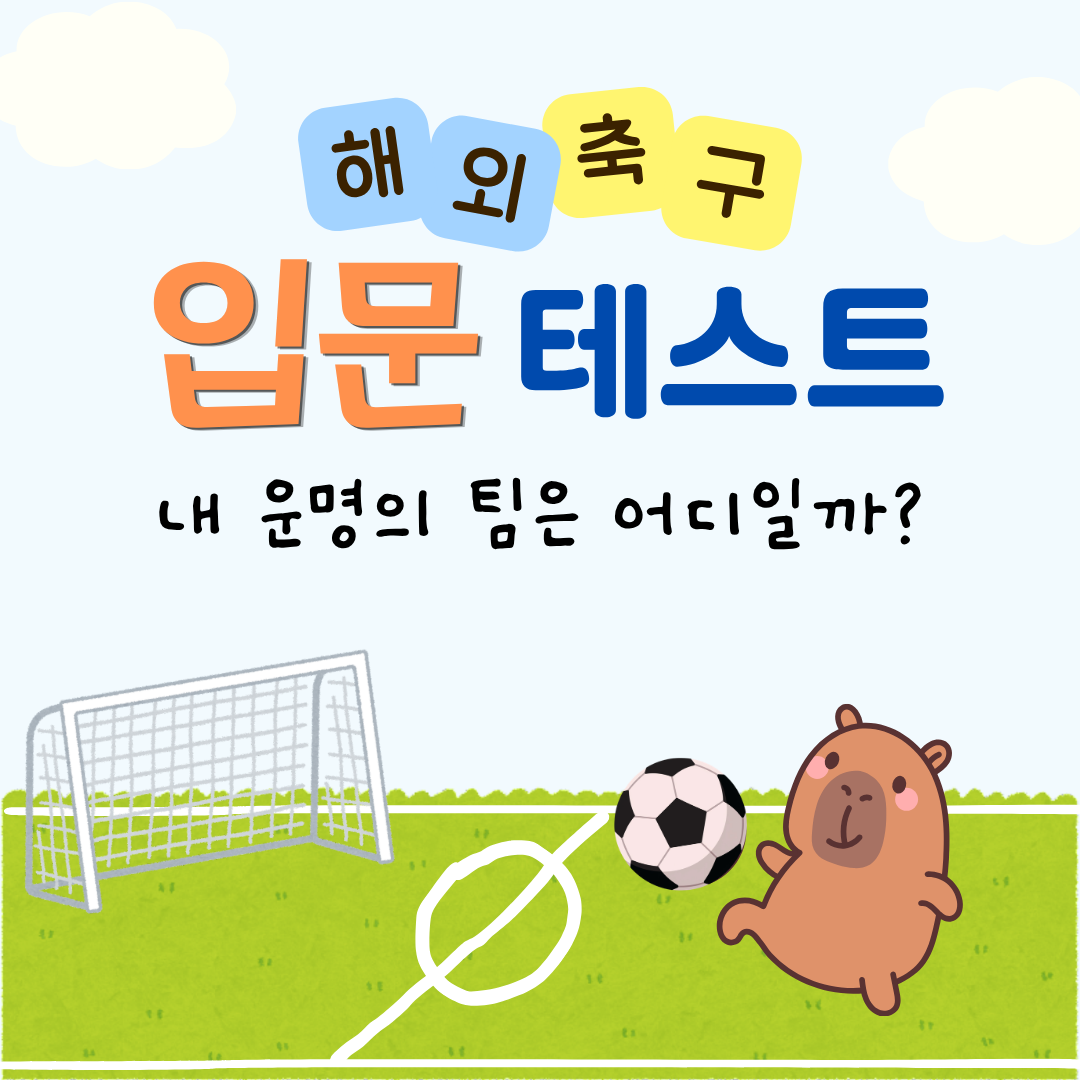
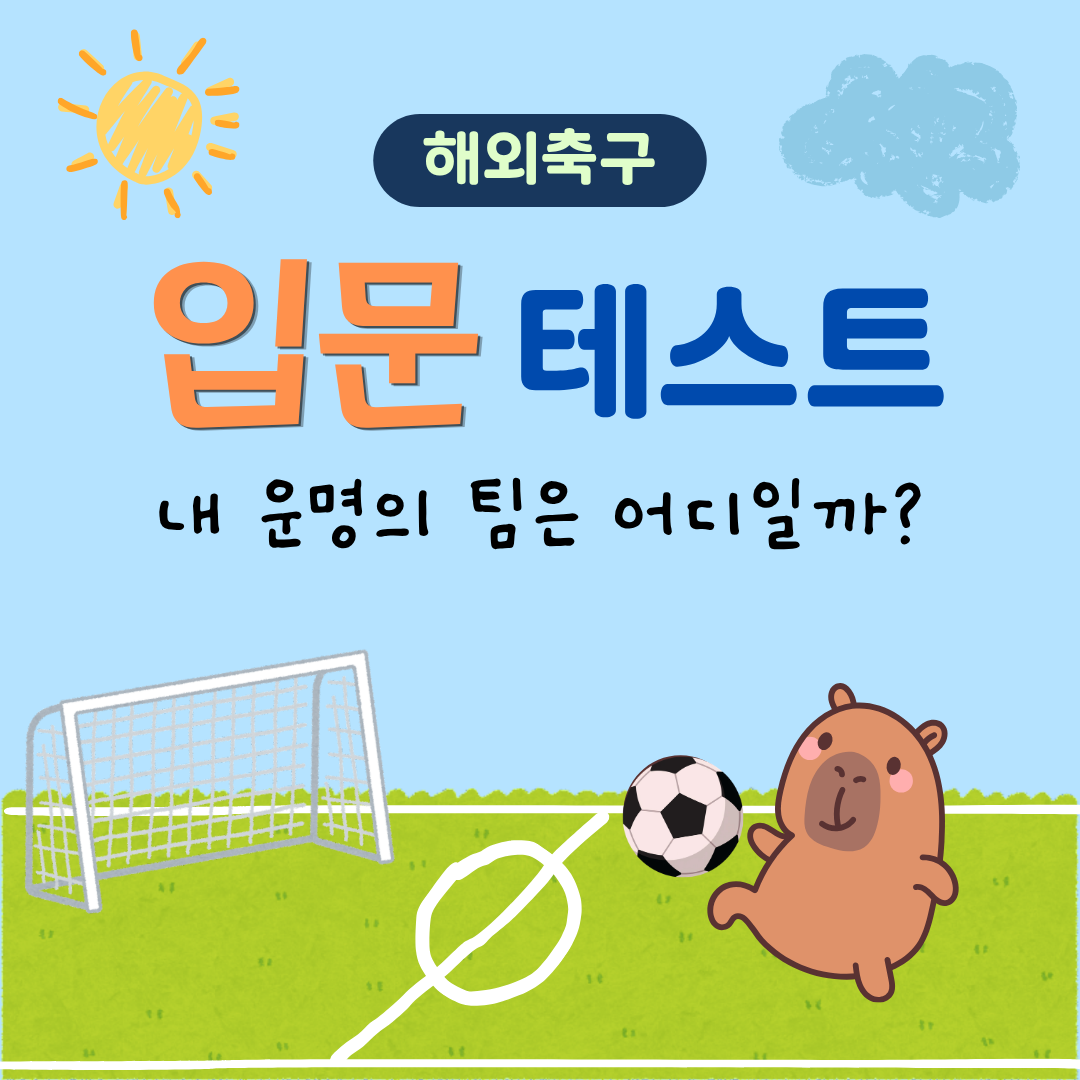
:sparkles: feat: 퀴즈 인트로 화면 완성 — OG 이미지 · 헤더 · CTA
공유 (가장 큰 구멍이었음)
- opengraph-image.jpg + .alt.txt 추가. 파일만 두면 Next 가 og:image
  와 width/height/type/alt 태그를 파일에서 읽어 자동 생성한다
- 이전에는 openGraph 에 제목·설명만 있고 images 가 없어서, 카톡으로
  공유하면 그림 없는 글자 카드만 떴다. 바이럴 서비스에선 치명적
- 2848x1504 5.4MB -> 1200x634 138KB. 미리보기는 300px 로 축소돼
  표시되므로 JPEG 손실이 보이지 않고, 용량은 로딩 실패를 좌우한다

레이아웃 — 화면 전체를 하나의 일러스트로
- 히어로 이미지의 상단색(#f2fafe)을 헤더 배경에, 하단색(#b0cd2a)을
  본문 배경에 그대로 써서 이음매를 없앰
- quiz_start.png 사방 4px 크롭. 잔디여야 할 가장자리에 하늘색 1~3px
  테두리가 남아 있어 축소 시 밝은 실선으로 보였다. 덤으로 하단의
  밝은 1px 띠도 제거됨
- 층 분리: 바깥 div(배경·폭·높이) / header / main / 안쪽 div(여백).
  한 컨테이너로는 "이미지는 꽉, 텍스트는 여백"을 동시에 못 한다

CTA — 방구석연구소 실측값에 맞춤
- 368x72 · radius 48px · 24px bold. 브라우저로 실제 렌더된 화면을
  재서 얻은 값이다. 시작 버튼은 화면에서 가장 큰 요소여야 한다

접근성·성능
- 제목이 이미지 그림 속에만 있어 sr-only h1 추가 (검색엔진·스크린리더)
- alt 는 그림 묘사로 분리. h1 과 같은 말을 두 번 읽지 않게
- sizes 로 컨테이너 폭(512px)을 알려 과한 해상도 다운로드 방지
- 로고 3.4MB -> 12KB (여백 64% 제거 후 203x64). 배경을 헤더색으로
  칠해 헤더 위에서 경계가 없다

metadata 의 서비스명을 "감독 성향" -> "팀 성향" 으로 통일.
감독은 연출 스킨이고 결과는 닮은 팀이라는 컨셉 정정의 후속.

diff --git a/app/football/quiz/page.tsx b/app/football/quiz/page.tsx
@@ -2,13 +2,14 @@ import type { Metadata } from "next";
 import Link from "next/link";
 import Image from "next/image";
 import quizStartImage from "@/public/quiz_start.png";
+import logo from "@/public/logo.png";
 
 export const metadata: Metadata = {
-  title: "해외축구 감독 성향 테스트",
-  description: "9문항으로 알아보는, 나와 가장 닮은 축구팀은?",
+  title: "해외축구 팀 성향 테스트",
+  description: "감독이 되어 찾는 나와 닮은 팀. 9문항 · 약 1분",
   openGraph: {
-    title: "해외축구 감독 성향 테스트 | Newbeez",
-    description: "9문항으로 알아보는, 나와 가장 닮은 축구팀은?",
+    title: "해외축구 팀 성향 테스트",
+    description: "감독이 되어 찾는 나와 닮은 팀. 9문항 · 약 1분",
     siteName: "Newbeez",
     type: "website",
     locale: "ko_KR",
@@ -16,21 +17,31 @@ export const metadata: Metadata = {
 };
 export default function QuizIntroPage() {
   return (
-    <main className="mx-auto flex w-full max-w-md flex-1 flex-col items-center gap-8 px-6 py-10">
-      <Image
-        src={quizStartImage}
-        alt="해외축구 입문 테스트 — 내 운명의 팀은 어디일까?"
-        placeholder="blur"
-        preload
-        className="h-auto w-full rounded-2xl"
-      />
+    <div className="mx-auto flex w-full max-w-lg flex-1 flex-col bg-[#b0cd2a]">
+      <header className="flex h-14 items-center justify-center bg-[#f2fafe]">
+        <Image src={logo} alt="newbeez" height={32} className="w-auto" />
+      </header>
+      <main className="flex flex-1 flex-col">
+        <h1 className="sr-only">해외축구 팀 성향 테스트</h1>
 
-      <Link
-        href="/football/quiz/play"
-        className="rounded-full bg-foreground px-10 py-4 text-lg font-semibold text-background transition-opacity hover:opacity-80"
-      >
-        퀴즈 시작하기
-      </Link>
-    </main>
+        <Image
+          src={quizStartImage}
+          alt="축구를 하는 중인 카피바라 일러스트"
+          placeholder="blur"
+          preload
+          sizes="(max-width: 512px) 100vw, 512px"
+          className="h-auto w-full"
+        />
+
+        <div className="flex flex-1 flex-col px-4 pt-6 pb-10">
+          <Link
+            href="/football/quiz/play"
+            className="mx-auto flex h-18 w-full max-w-92 items-center justify-center rounded-full bg-[#2c2735] text-2xl font-bold text-white"
+          >
+            시작하기
+          </Link>
+        </div>
+      </main>
+    </div>
   );
 }
